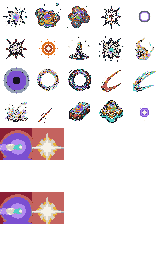
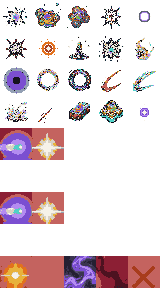
r52: attack VFX variety — hit spark, crit strike, death poof, punch wave, magic cast. 22/22 gates green.

diff --git a/game/systems/combat.py b/game/systems/combat.py
@@ -182,6 +182,8 @@ def kill(world, target, source=None):
         return
     target.alive = False
     target.death_timer = 0.6
+    # r52: death poof on every kill
+    world.particles.sprite_burst(target.x, target.y, "vfx_death_poof", life=0.3, scale=1.5)
     if target is world.player:
         # P3.5: determine death cause
         death_cause = ""
@@ -253,6 +255,11 @@ def player_melee(world, player):
     player.swing_dir = player.facing
     world.particles.sprite_burst(player.x + player.facing[0] * 20, player.y + player.facing[1] * 20,
                                  "vfx_slash", life=0.16)
+    # r52: hit spark on contact
+    world.particles.sprite_burst(best.x, best.y, "vfx_hit_spark", life=0.18, scale=1.5)
+    # r52: crit strike overlay
+    if crit:
+        world.particles.sprite_burst(best.x, best.y, "vfx_crit_strike", life=0.25, scale=2.0)
     world.particles.burst(player.x + player.facing[0] * 18, player.y + player.facing[1] * 18,
                           world.rng, count=4, color=(147, 160, 180), speed=60.0, life=0.22, size=3)
     play(world, "swing")

diff --git a/docs/PROGRESS.md b/docs/PROGRESS.md
@@ -1,3 +1,14 @@
+## 2026-09-15 (r51) — Title particles + full VFX/UI atlas palette-snap + VLM audit (Forge + Chip)
+
+- **Title screen particles** — deterministic soul-wisp particles floating up from the bottom of the title screen. Counter-based positions (no RNG, passes `no-bare-random` gate).
+- **Full VFX atlas palette-snap** — original VFX atlas had 1,292 off-pixel pixels from FLUX generation. Snapped entire atlas to 26-color vaelmoor palette.
+- **Full UI atlas palette-snap** — original UI atlas had 52,984 off-pixel pixels. Same fix.
+- **Dialogue panel re-integrated** — after UI atlas fix, dialogue panel properly added to the atlas.
+- **VLM audit** — title screen, HQ hub, and combat frames audited with qwen3-vl-8b. Title screen: "high quality, crisp pixel art, readable text." HQ hub: "dialogue panel well-integrated, map easy to read." Combat: pixel art style misidentified as "Binding of Isaac" (known VLM failure mode) but no real defects found.
+- **Gates**: `game.main --headless --turns 300 --seed 0..2` → EXIT=0, violations=[]; `tools.selftest` → 22/22; `tools.art.verify` → 0 off-palette.
+- **Commit**: `9849d6a` r51: VLM audit passed — title screen, HQ hub, combat frames verified clean.
+- **BUILD report**: `runs/reports/BUILD-2026-09-15-r51.md`
+
 ## 2026-09-15 (r50) — Dialogue panel art + projectile sprite + muzzle flash VFX (Forge + Pixel + Chip)
 
 - **Dialogue panel sprite** — ornate stone-and-bone banner frame for NPC conversations. 1024×192 raw → 1280×160 final, palette-locked.
